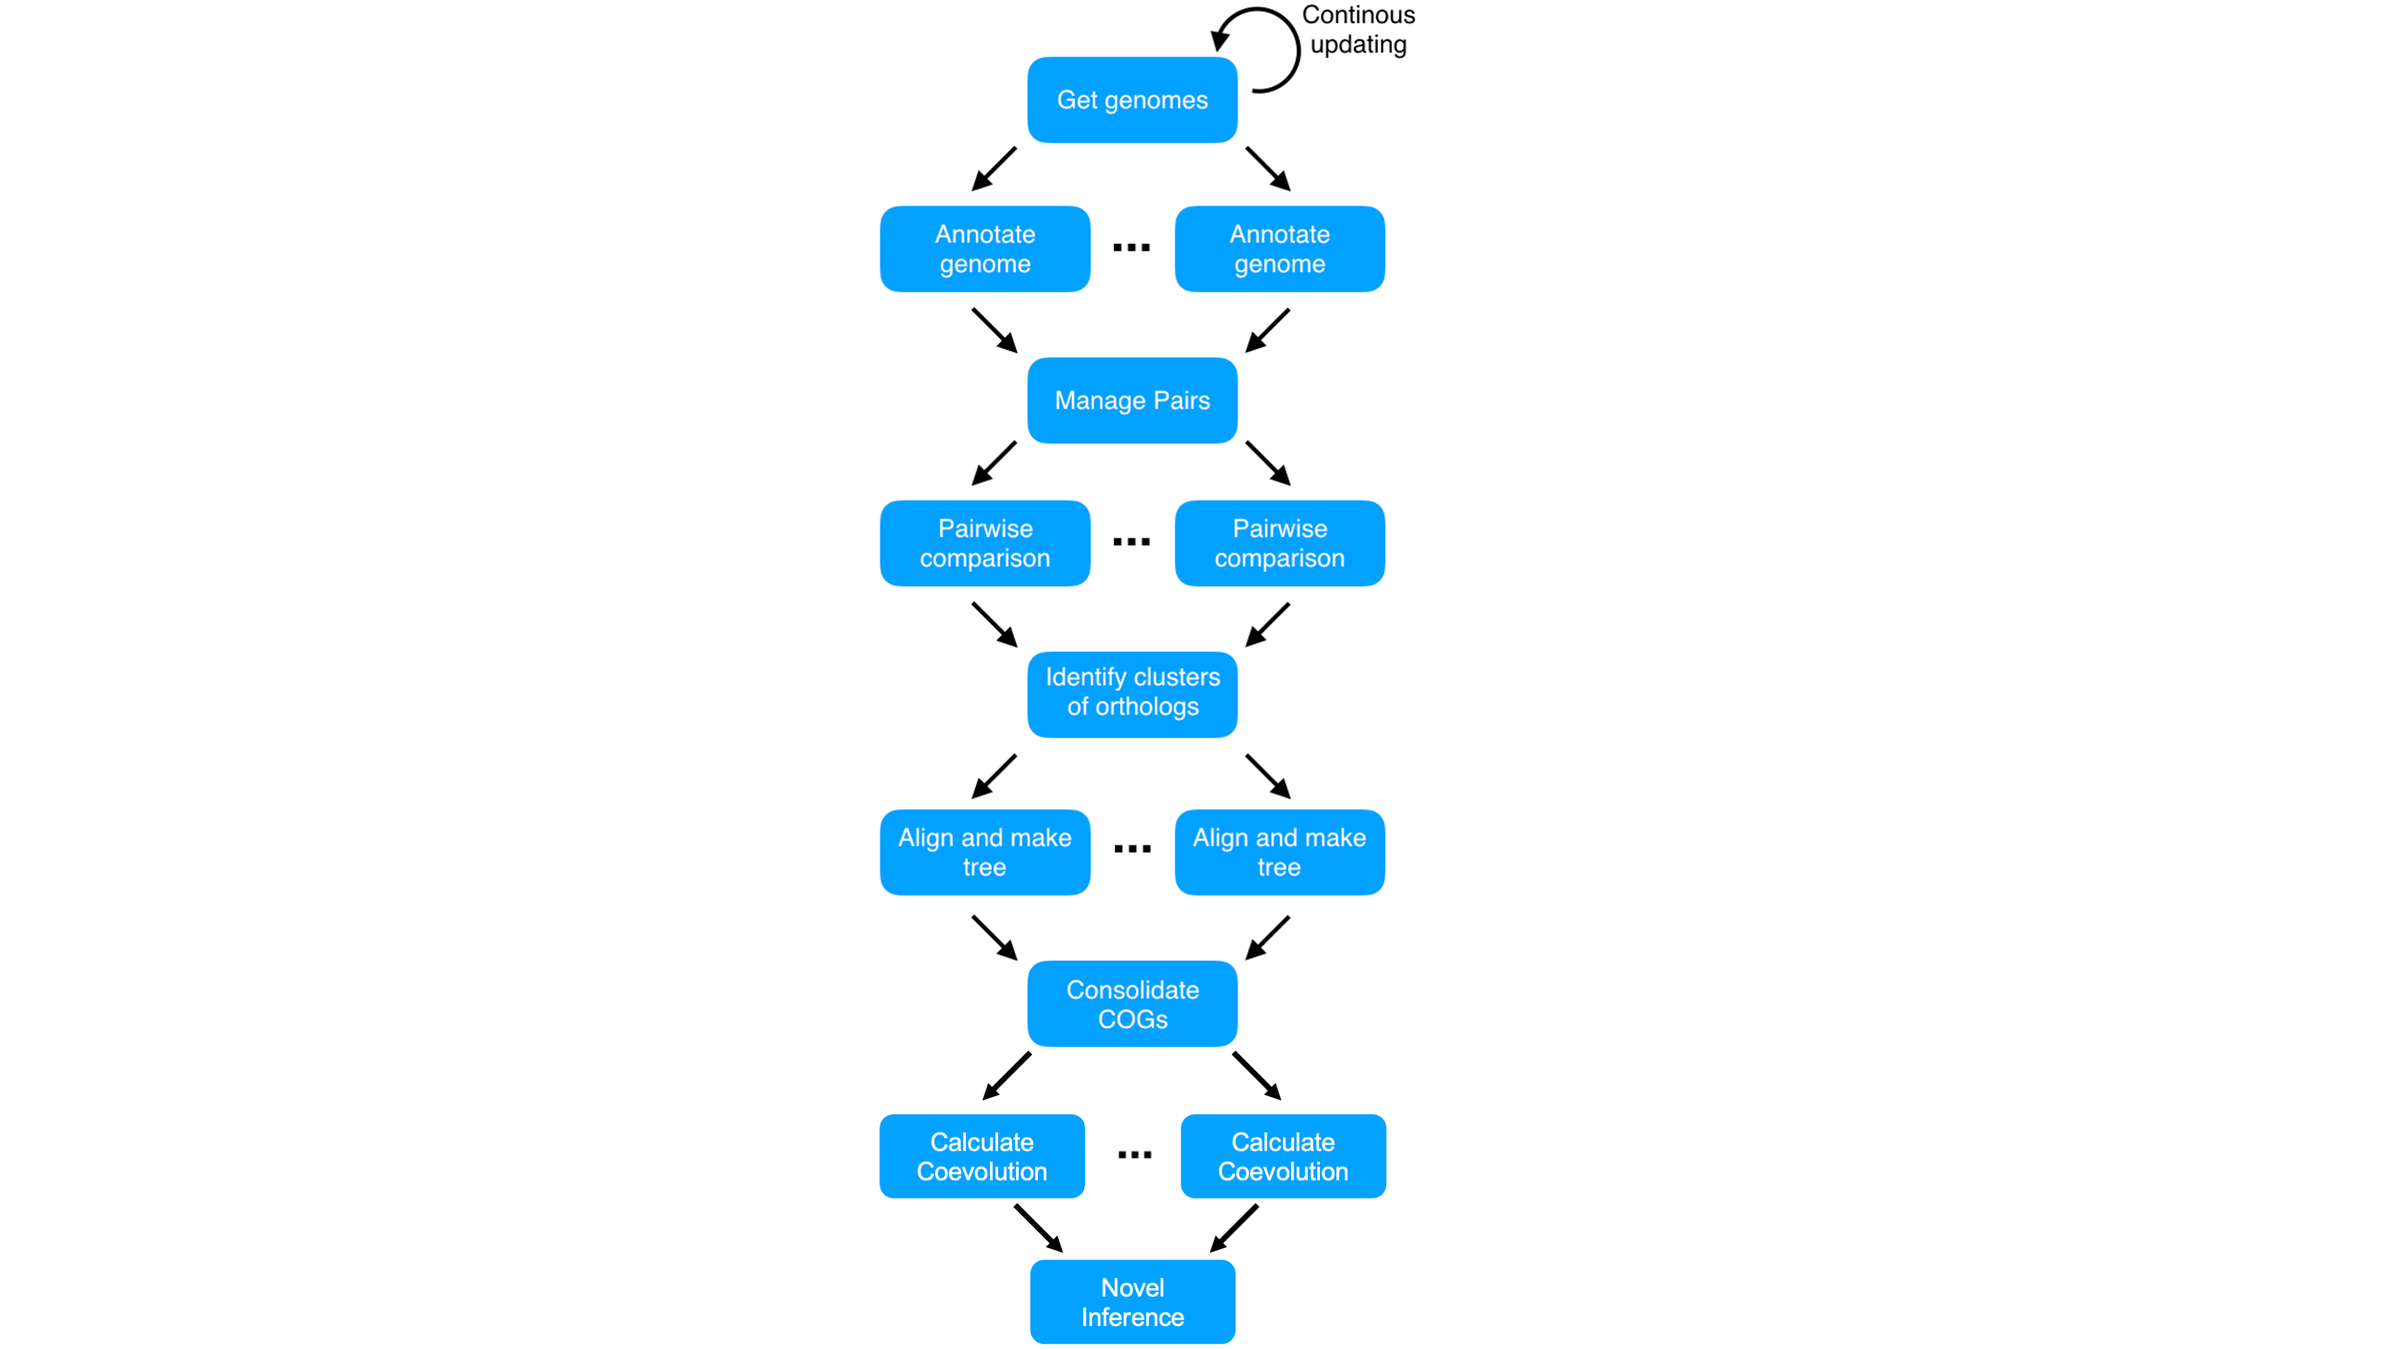
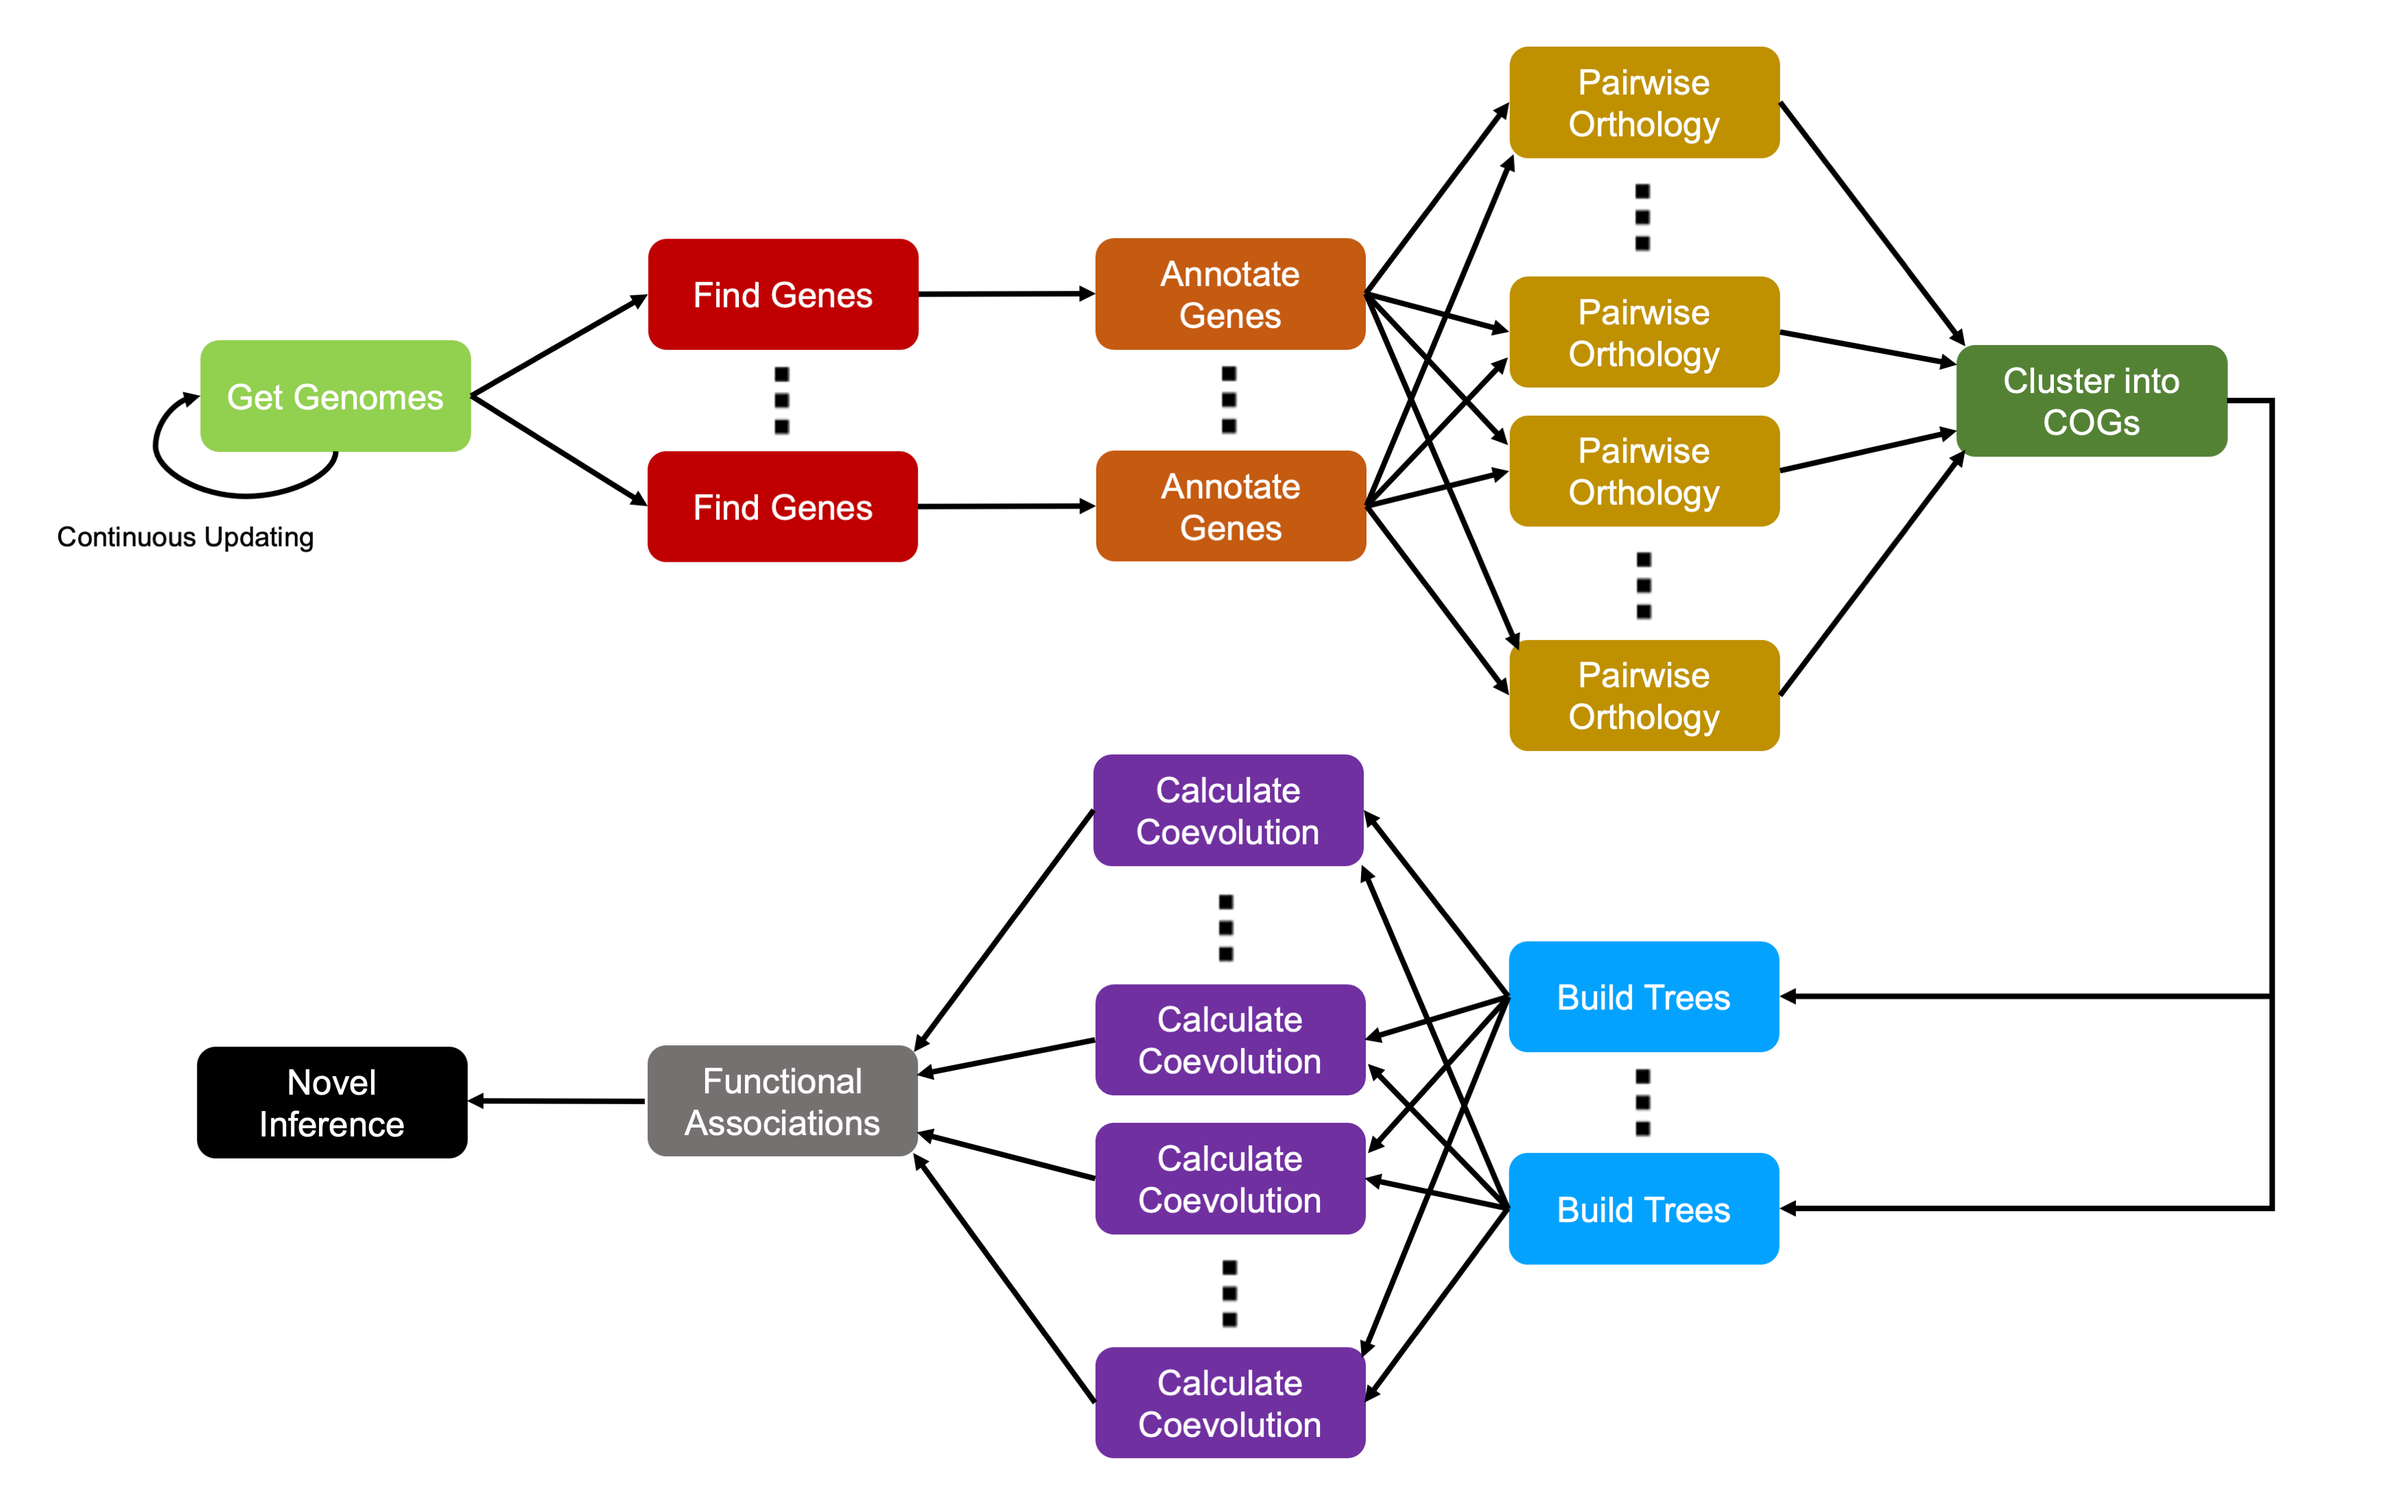
first update post-conference

diff --git a/NEWS.md b/NEWS.md
@@ -1,3 +1,10 @@
+# Version 3.3.0
+### General Notes
+* First update after Bioconductor conference
+* Removes some material specific to conference workshop
+* Updates some graphics
+* Adds detailed description of runtime consideration
+
 # Version 3.2.0
 ### General Notes
 * Changes example on `Loading Genome Data` to use a gene rather than random bases
